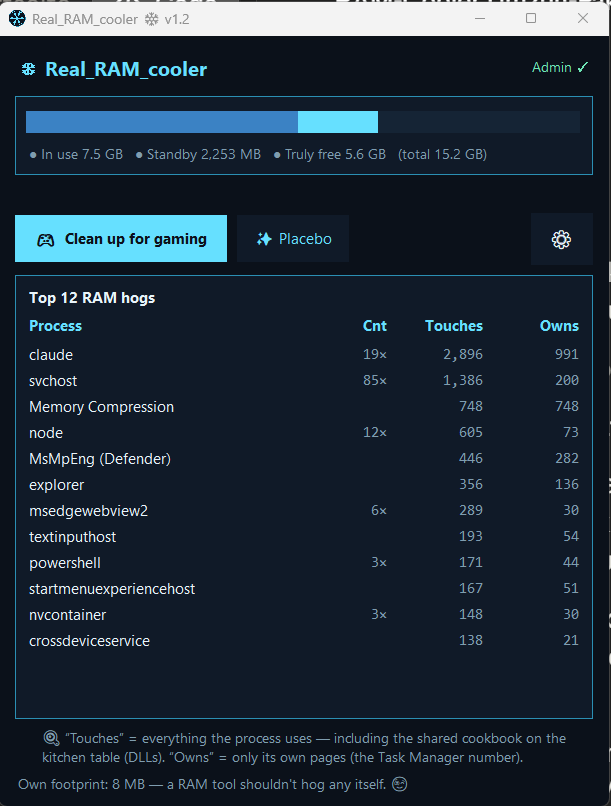
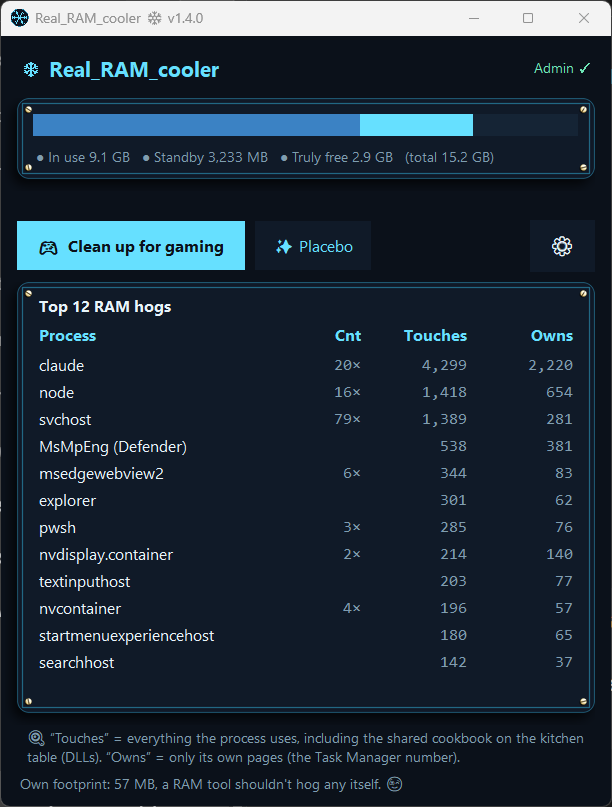
Real_RAM_cooler 1.4.0: News in 14 Sprachen, Bilder in der Anleitung neu

diff --git a/js/news.js b/js/news.js
@@ -21,6 +21,25 @@
 var NEWS = {
   ram: [
     {
+      date: '2026-11-12',
+      version: 'v1.4.0',
+      link: 'https://github.com/Dennismit2n/Real_RAM_cooler/releases/tag/v1.4.0',
+      de: 'Real_RAM_cooler trägt jetzt denselben Look wie die Kacheln hier: Der RAM-Balken und die Prozessliste sitzen auf Karten mit eckigem Innenrahmen und vier kleinen Schrauben in Weißgold, und der Schatten fällt nach links unten. Fenstergröße, Zahlen und Knöpfe bleiben, wie sie sind.',
+      en: 'Real_RAM_cooler now wears the same look as the tiles here: the RAM bar and the process list sit on cards with a square inner frame and four small white gold screws, and the shadow falls to the bottom left. Window size, numbers and buttons stay as they are.',
+      es: 'Real_RAM_cooler lleva ahora el mismo aspecto que las tarjetas de aquí: la barra de RAM y la lista de procesos se apoyan en tarjetas con marco interior recto y cuatro tornillos pequeños de oro blanco, y la sombra cae hacia abajo a la izquierda. El tamaño de la ventana, las cifras y los botones no cambian.',
+      fr: 'Real_RAM_cooler porte désormais le même look que les tuiles d’ici : la barre de RAM et la liste des processus reposent sur des cartes avec un cadre intérieur à angles droits et quatre petites vis en or blanc, et l’ombre tombe en bas à gauche. La taille de la fenêtre, les chiffres et les boutons restent les mêmes.',
+      it: 'Real_RAM_cooler ora ha lo stesso aspetto delle tessere di qui: la barra della RAM e l’elenco dei processi poggiano su schede con cornice interna squadrata e quattro piccole viti in oro bianco, e l’ombra cade in basso a sinistra. Dimensione della finestra, numeri e pulsanti restano uguali.',
+      nl: 'Real_RAM_cooler draagt nu dezelfde look als de tegels hier: de RAM-balk en de proceslijst zitten op kaarten met een rechte binnenlijst en vier kleine schroefjes in witgoud, en de schaduw valt naar linksonder. Venstergrootte, cijfers en knoppen blijven zoals ze zijn.',
+      pl: 'Real_RAM_cooler ma teraz ten sam wygląd co kafelki tutaj: pasek RAM i lista procesów leżą na kartach z prostokątną ramką wewnętrzną i czterema małymi śrubkami z białego złota, a cień pada w lewo w dół. Rozmiar okna, liczby i przyciski zostają bez zmian.',
+      pt: 'O Real_RAM_cooler agora tem o mesmo visual dos blocos daqui: a barra de RAM e a lista de processos ficam sobre cartões com moldura interna reta e quatro parafusinhos em ouro branco, e a sombra cai para baixo à esquerda. Tamanho da janela, números e botões continuam iguais.',
+      tr: 'Real_RAM_cooler artık buradaki kutularla aynı görünümü taşıyor: RAM çubuğu ve işlem listesi, köşeli bir iç çerçeve ile beyaz altın dört küçük vidası olan kartların üstünde duruyor, gölge de sol alta düşüyor. Pencere boyutu, sayılar ve düğmeler aynı kalıyor.',
+      ru: 'Real_RAM_cooler теперь выглядит так же, как плитки здесь: полоса RAM и список процессов лежат на карточках с прямоугольной внутренней рамкой и четырьмя маленькими винтами из белого золота, а тень падает влево вниз. Размер окна, цифры и кнопки остались прежними.',
+      hi: 'Real_RAM_cooler अब यहाँ की टाइलों जैसा ही दिखता है: RAM पट्टी और प्रोसेस सूची ऐसे कार्डों पर हैं, जिनमें चौकोर भीतरी फ़्रेम और सफ़ेद सोने के चार छोटे पेंच हैं, और परछाईं नीचे बाईं ओर पड़ती है। विंडो का आकार, आँकड़े और बटन वैसे ही हैं।',
+      zh: 'Real_RAM_cooler 现在和这里的卡片是同一种外观：内存条和进程列表放在带直角内框和四颗白金色小螺丝的卡片上，阴影落向左下方。窗口大小、数字和按钮都保持不变。',
+      ja: 'Real_RAM_cooler が、ここのタイルと同じ見た目になりました。RAM バーとプロセス一覧は、角ばった内枠と4本の小さなホワイトゴールドのねじが付いたカードに載り、影は左下に落ちます。ウィンドウの大きさ、数字、ボタンは変わりません。',
+      ko: 'Real_RAM_cooler가 이제 이곳 타일과 같은 모습입니다. RAM 막대와 프로세스 목록이 각진 안쪽 테두리와 화이트골드 작은 나사 네 개가 달린 카드 위에 놓이고, 그림자는 왼쪽 아래로 떨어집니다. 창 크기, 숫자, 버튼은 그대로입니다.'
+    },
+    {
       date: '2026-11-01',
       version: 'v1.3.3',
       link: 'https://github.com/Dennismit2n/Real_RAM_cooler/releases/tag/v1.3.3',

diff --git a/js/guides.js b/js/guides.js
@@ -48,8 +48,8 @@ var GUIDES = {
     shots: [
       {
         files: {
-          de: ['ram-de.webp', 612, 802],
-          en: ['ram-en.webp', 611, 806]
+          de: ['ram-de.webp', 612, 807],
+          en: ['ram-en.webp', 612, 807]
         },
         alt: {
           de: 'Das Fenster von Real_RAM_cooler: ein Balken, der zeigt, wie viel Arbeitsspeicher in Benutzung, im Standby und wirklich frei ist, darunter der Knopf zum Bereinigen fürs Gaming, ein Placebo-Knopf und die zwölf größten Speicherfresser mit den Spalten Berührt und Besitzt.',

diff --git a/gaming.html b/gaming.html
@@ -185,6 +185,6 @@
 <script src="./js/i18n.js?v=2026-11-12" fetchpriority="high"></script>
 <script src="./js/dates.js?v=2026-09-14" fetchpriority="high"></script>
 <script src="./js/header.js?v=2026-11-03" fetchpriority="high"></script>
-<script src="./js/main.js?v=2026-11-03c" fetchpriority="high" data-news="./js/news.js?v=2026-11-12d"></script>
+<script src="./js/main.js?v=2026-11-03c" fetchpriority="high" data-news="./js/news.js?v=2026-11-12e"></script>
 </body>
 </html>

diff --git a/index.html b/index.html
@@ -507,6 +507,6 @@
 <script src="./js/i18n.js?v=2026-11-12" fetchpriority="high"></script>
 <script src="./js/dates.js?v=2026-09-14" fetchpriority="high"></script>
 <script src="./js/header.js?v=2026-11-03" fetchpriority="high"></script>
-<script src="./js/main.js?v=2026-11-03c" fetchpriority="high" data-news="./js/news.js?v=2026-11-12d"></script>
+<script src="./js/main.js?v=2026-11-03c" fetchpriority="high" data-news="./js/news.js?v=2026-11-12e"></script>
 </body>
 </html>

diff --git a/werkstatt.html b/werkstatt.html
@@ -102,8 +102,8 @@
 </div>
 
 <script src="./js/i18n.js?v=2026-11-12"></script>
-<script src="./js/news.js?v=2026-11-12d"></script>
-<script src="./js/guides.js?v=2026-11-12e"></script>
+<script src="./js/news.js?v=2026-11-12e"></script>
+<script src="./js/guides.js?v=2026-11-12f"></script>
 <script src="./js/dates.js?v=2026-09-14"></script>
 <script src="./js/header.js?v=2026-11-03"></script>
 <script src="./js/werkstatt.js?v=2026-11-11c"></script>
